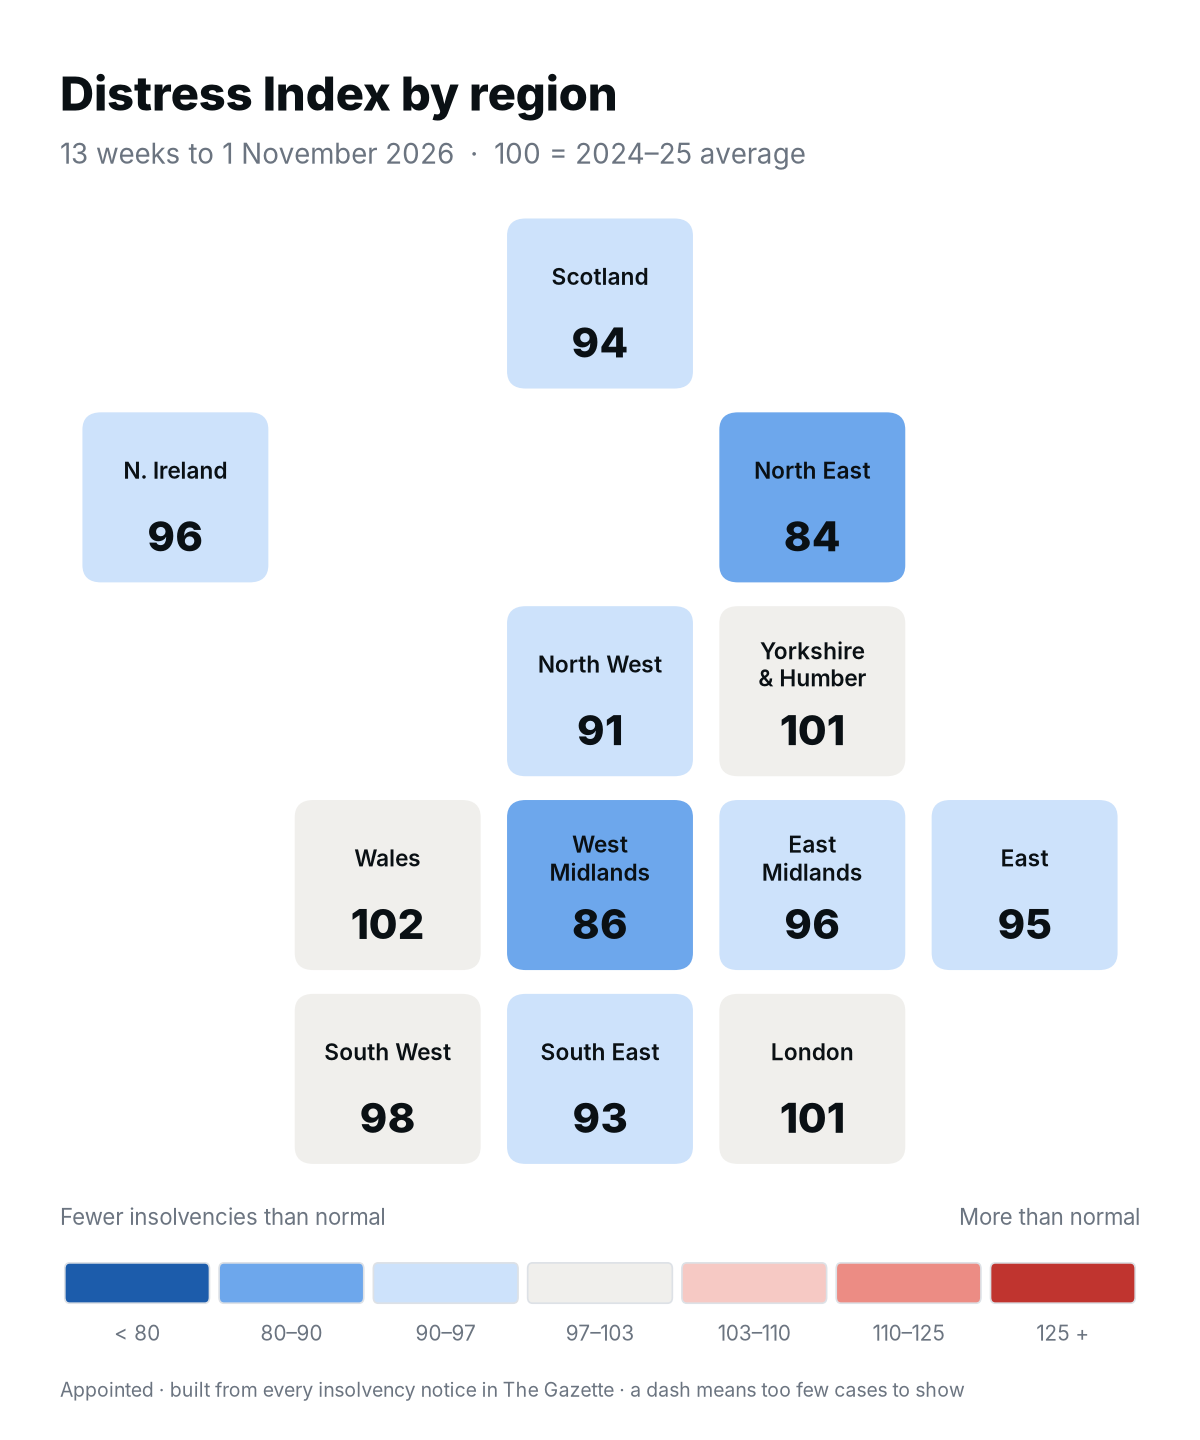
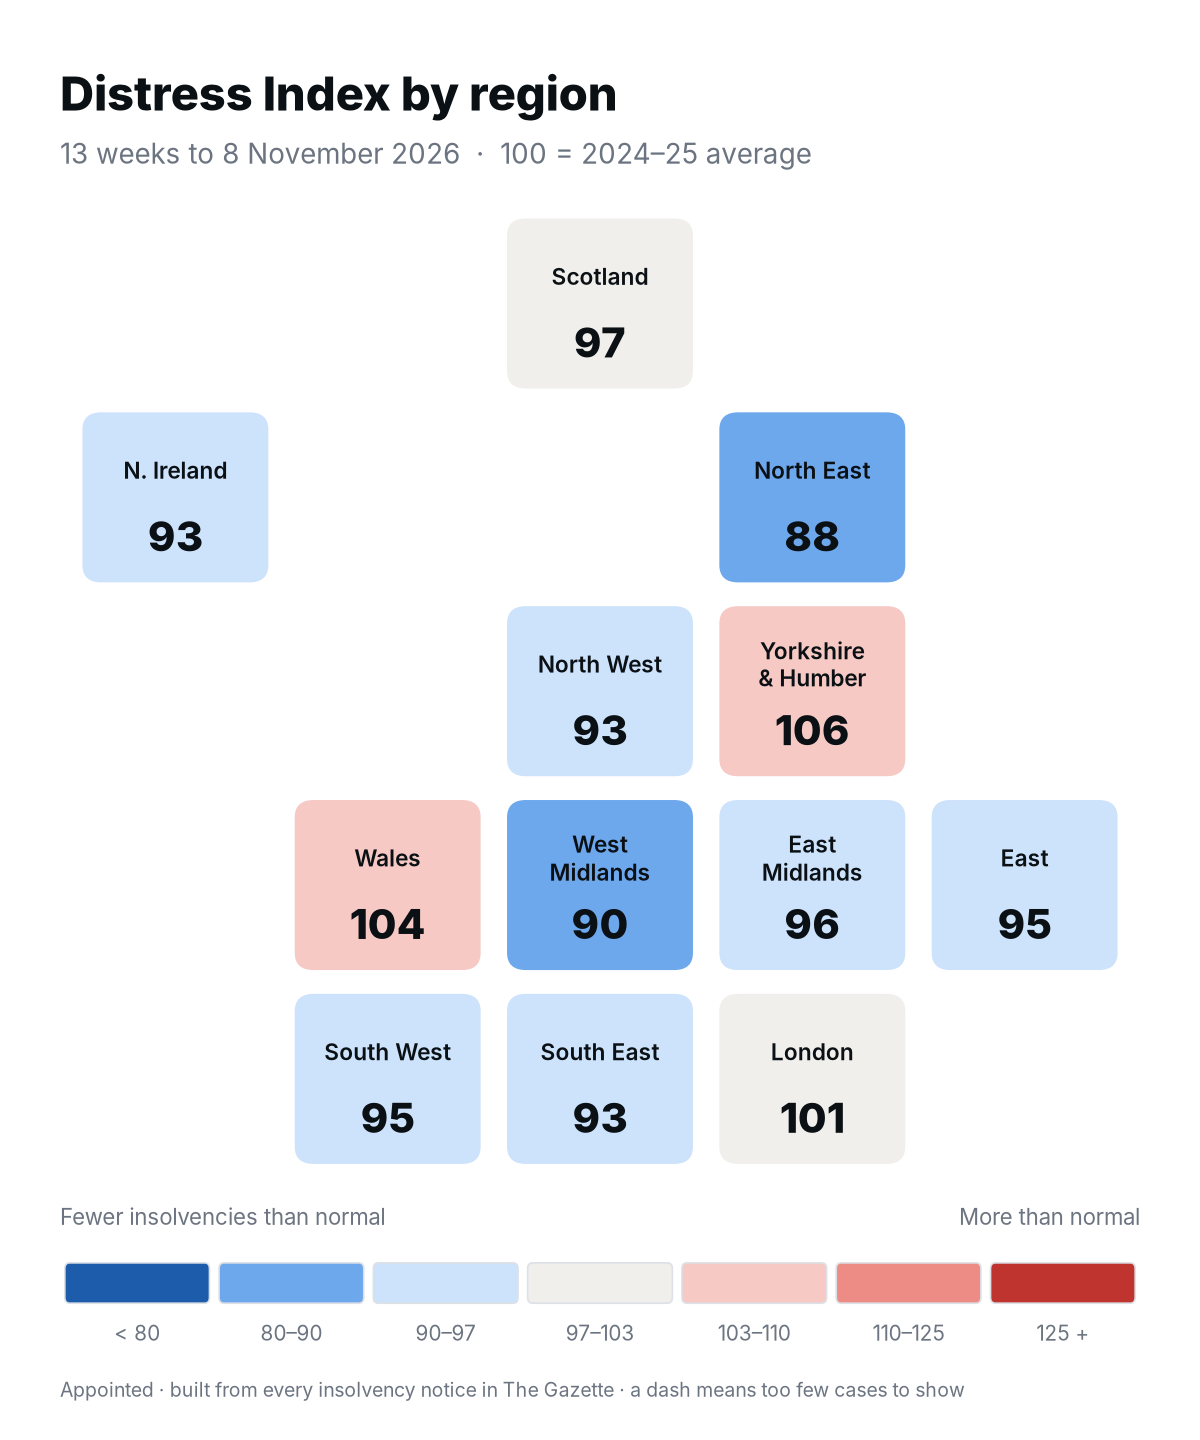
Data update 2026-11-09

diff --git a/docs/data/last_run.md b/docs/data/last_run.md
@@ -1,6 +1,6 @@
 # Last run
 
-- UTC: 2026-11-08T03:26:13Z
+- UTC: 2026-11-09T03:16:08Z
 - Trigger: schedule
 
 ```
@@ -25,22 +25,21 @@ month 2026-10
   2026-10 2452: 304 notices
   2026-10 2603: 101 notices
 month 2026-11
-  2026-11 2410: 39 notices
+  2026-11 2410: 42 notices
   2026-11 2421: 0 notices
   2026-11 2423: 0 notices
-  2026-11 2441: 351 notices
-  HTTP 500, waiting 10s (1/6)
-  2026-11 2443: 363 notices
+  2026-11 2441: 381 notices
+  2026-11 2443: 393 notices
   2026-11 2450: 160 notices
   2026-11 2451: 0 notices
-  2026-11 2452: 87 notices
+  2026-11 2452: 107 notices
   2026-11 2603: 38 notices
-office addresses: {'office_points': 672, 'notices_at_office_points': 56311, 'share_at_office_points': 0.1841, 'notices_without_point_field': 0}
-published: 357 weeks, 305893 notices, 184557 events
+office addresses: {'office_points': 672, 'notices_at_office_points': 56337, 'share_at_office_points': 0.1841, 'notices_without_point_field': 0}
+published: 358 weeks, 305976 notices, 184609 events
 constituencies: 632 seats, 9 quarters
 official: company-insolvencies-september-2026, 81 months; reconciled 243 component-months
   ADM: {'months_compared_since_apr_2022': 54, 'ratio_mean': 1.02, 'ratio_sd': 0.161, 'ratio_min': 0.665, 'ratio_max': 1.495, 'share_of_months_within_10pct_of_mean': 0.5, 'corr_monthly_changes': 0.642, 'corr_3month_changes': 0.786, 'latest_month': '2026-09', 'latest_ratio': 1.14}
   CVL: {'months_compared_since_apr_2022': 54, 'ratio_mean': 1.02, 'ratio_sd': 0.107, 'ratio_min': 0.756, 'ratio_max': 1.281, 'share_of_months_within_10pct_of_mean': 0.704, 'corr_monthly_changes': 0.479, 'corr_3month_changes': 0.554, 'latest_month': '2026-09', 'latest_ratio': 1.03}
   WUO: {'months_compared_since_apr_2022': 54, 'ratio_mean': 1.009, 'ratio_sd': 0.23, 'ratio_min': 0.203, 'ratio_max': 1.447, 'share_of_months_within_10pct_of_mean': 0.37, 'corr_monthly_changes': 0.168, 'corr_3month_changes': 0.247, 'latest_month': '2026-09', 'latest_ratio': 0.91}
-charts: regional map for week starting 2026-10-26
+charts: regional map for week starting 2026-11-02
 ```
